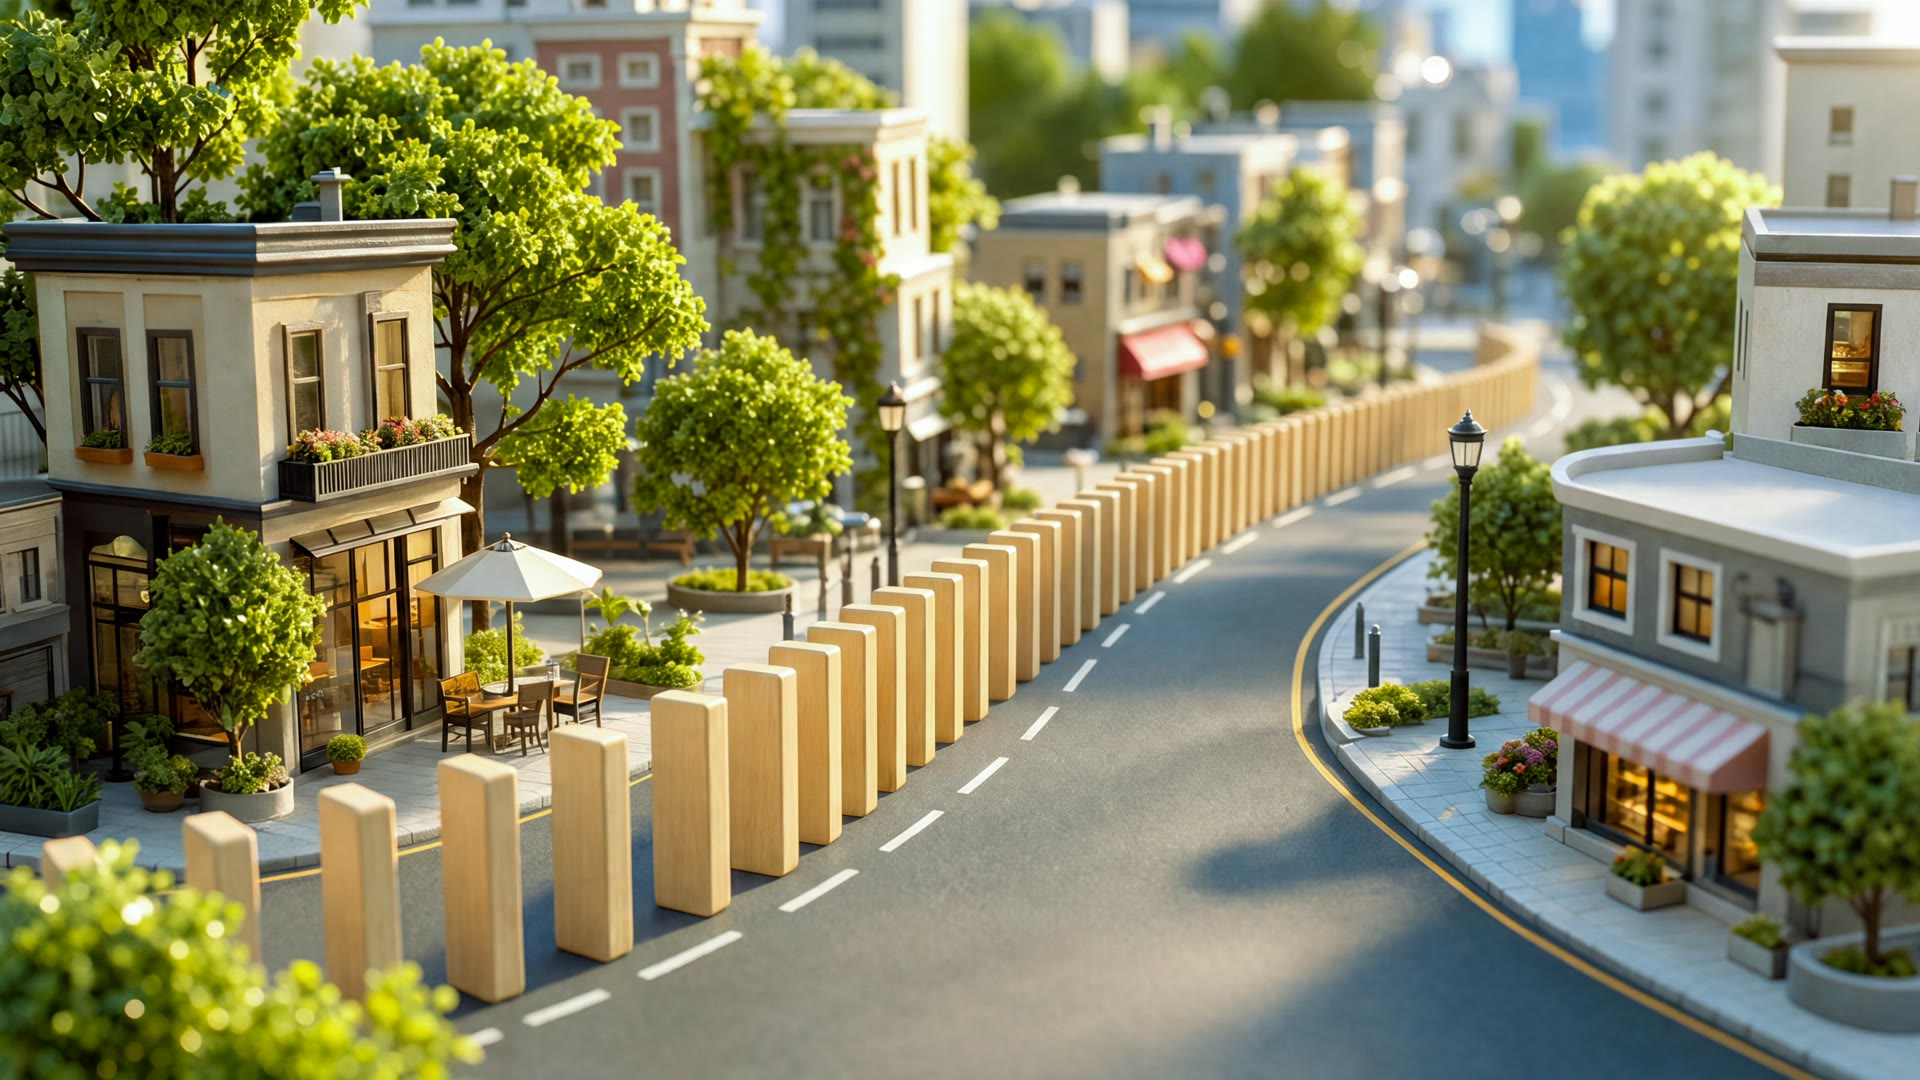
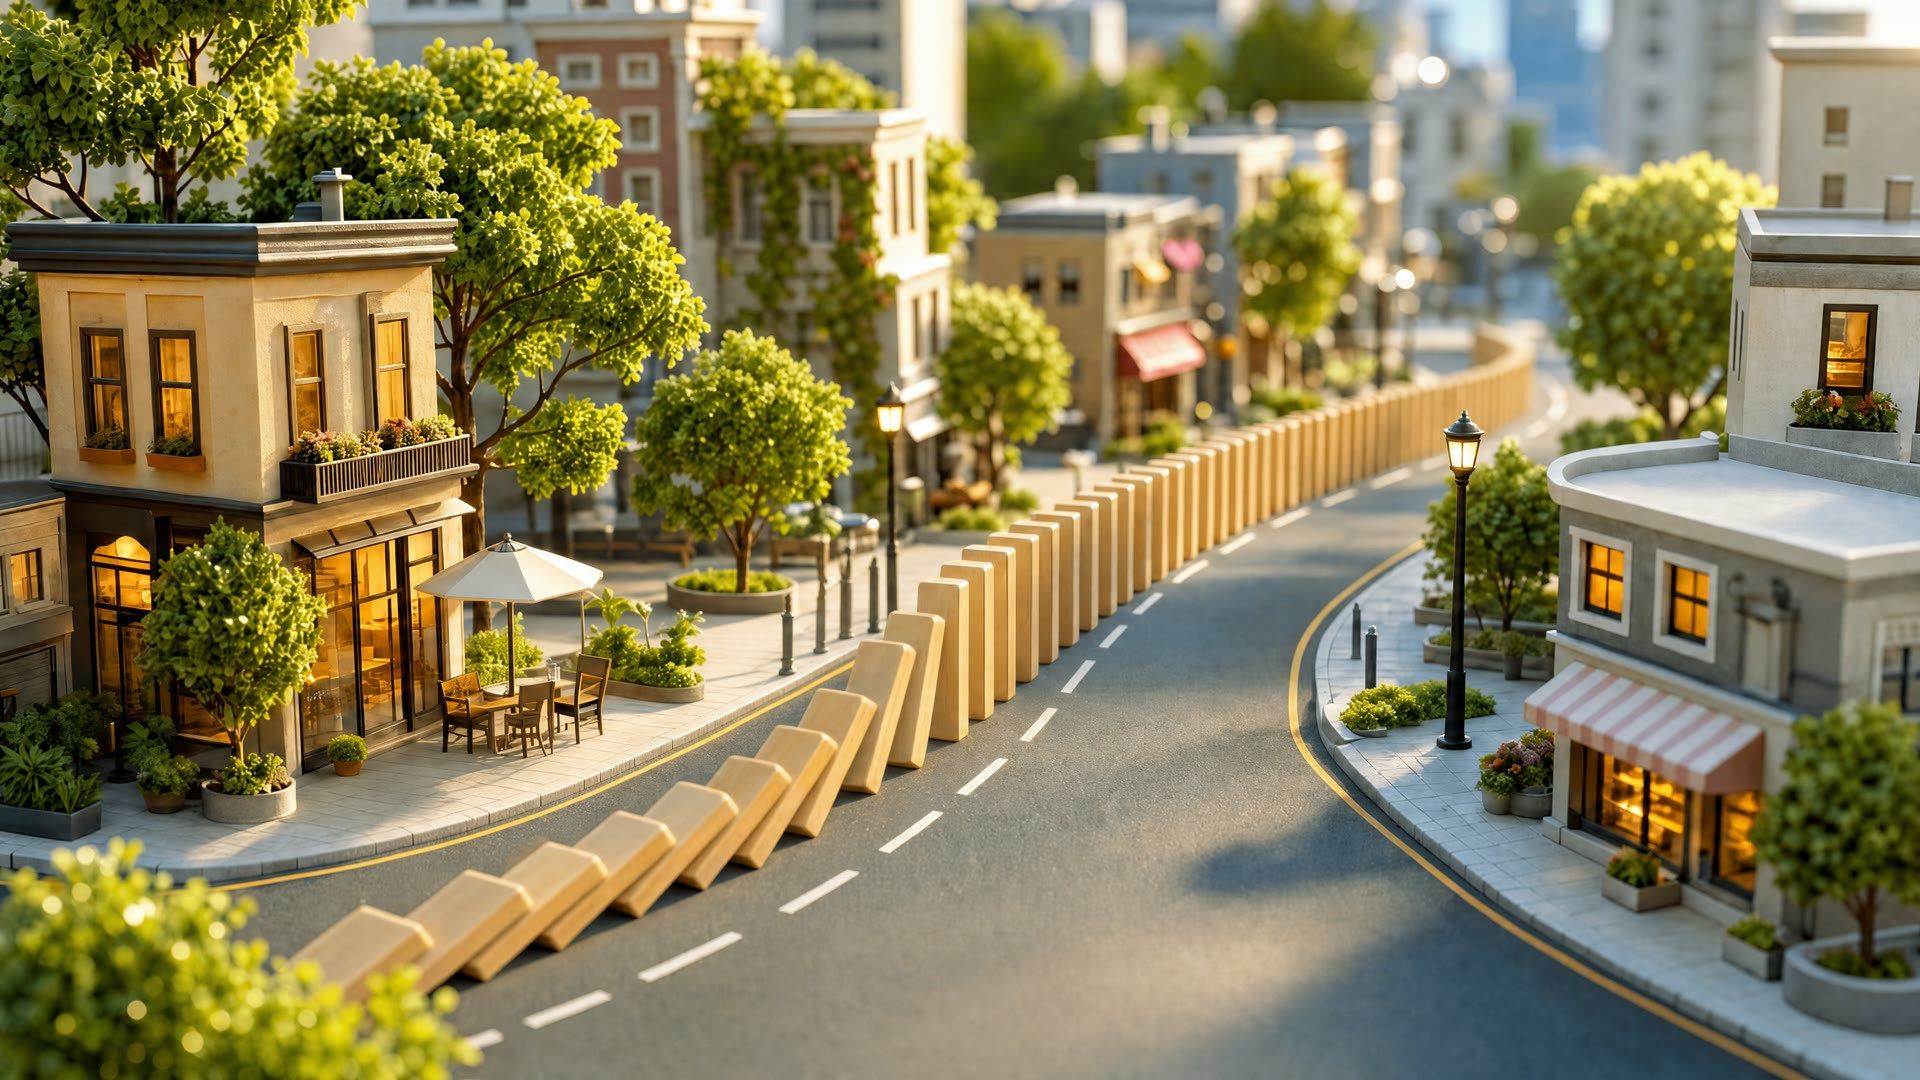
CUT 03 · 05 · 06 그림을 새로 건다
03  iv3_7   앞쪽 줄이 이미 쓰러져 있다 — 서 있기만 하던 판보다 사건이 보인다
  05  iv5_12  유리돔 안의 열매 조형을 지나간다
  06  iv6_1   건물 전광판에 캐릭터가 뜬다

diff --git a/assets/led/README.md b/assets/led/README.md
@@ -8,10 +8,11 @@
 |---|---|---|
 | `cut01.jpg` | `iv1_2` | 화면만 담긴 판이다. 앞의 실물 도미노는 UI 로 그린다 |
 | `cut02.jpg` | `iv2_1` | 아치를 지나 도시로 — CUT 01 의 줄이 그대로 이어진다 |
-| `cut03.jpg` | `iv3_4` | 도시의 길을 따라 줄이 휘어 간다 |
+| `cut03.jpg` | `iv3_7` | 길을 따라 줄이 휘어 가고, 앞쪽은 이미 쓰러졌다 |
 | `cut04.jpg` | `iv4_4` | 줄이 건물을 감아 돈다 |
-| `cut05.jpg` | `iv5_1` | ← `iv5` 에서 교체 |
-| `cut06.jpg` ~ `cut08.jpg` | `iv6` ~ `iv8` | |
+| `cut05.jpg` | `iv5_12` | 유리돔 안의 열매 조형을 지나간다 |
+| `cut06.jpg` | `iv6_1` | 건물 전광판에 캐릭터가 뜬다 |
+| `cut07.jpg` · `cut08.jpg` | `iv7` · `iv8` | |
 | `cut09.jpg` | `iv9_1` | ← `iv9` 에서 교체. 세로본의 16:9 판이라 크롭 손실이 없다 |
 | CUT 10 | — | 배경 그림 없이 **로고 두 개만** 얹는다 |
 
